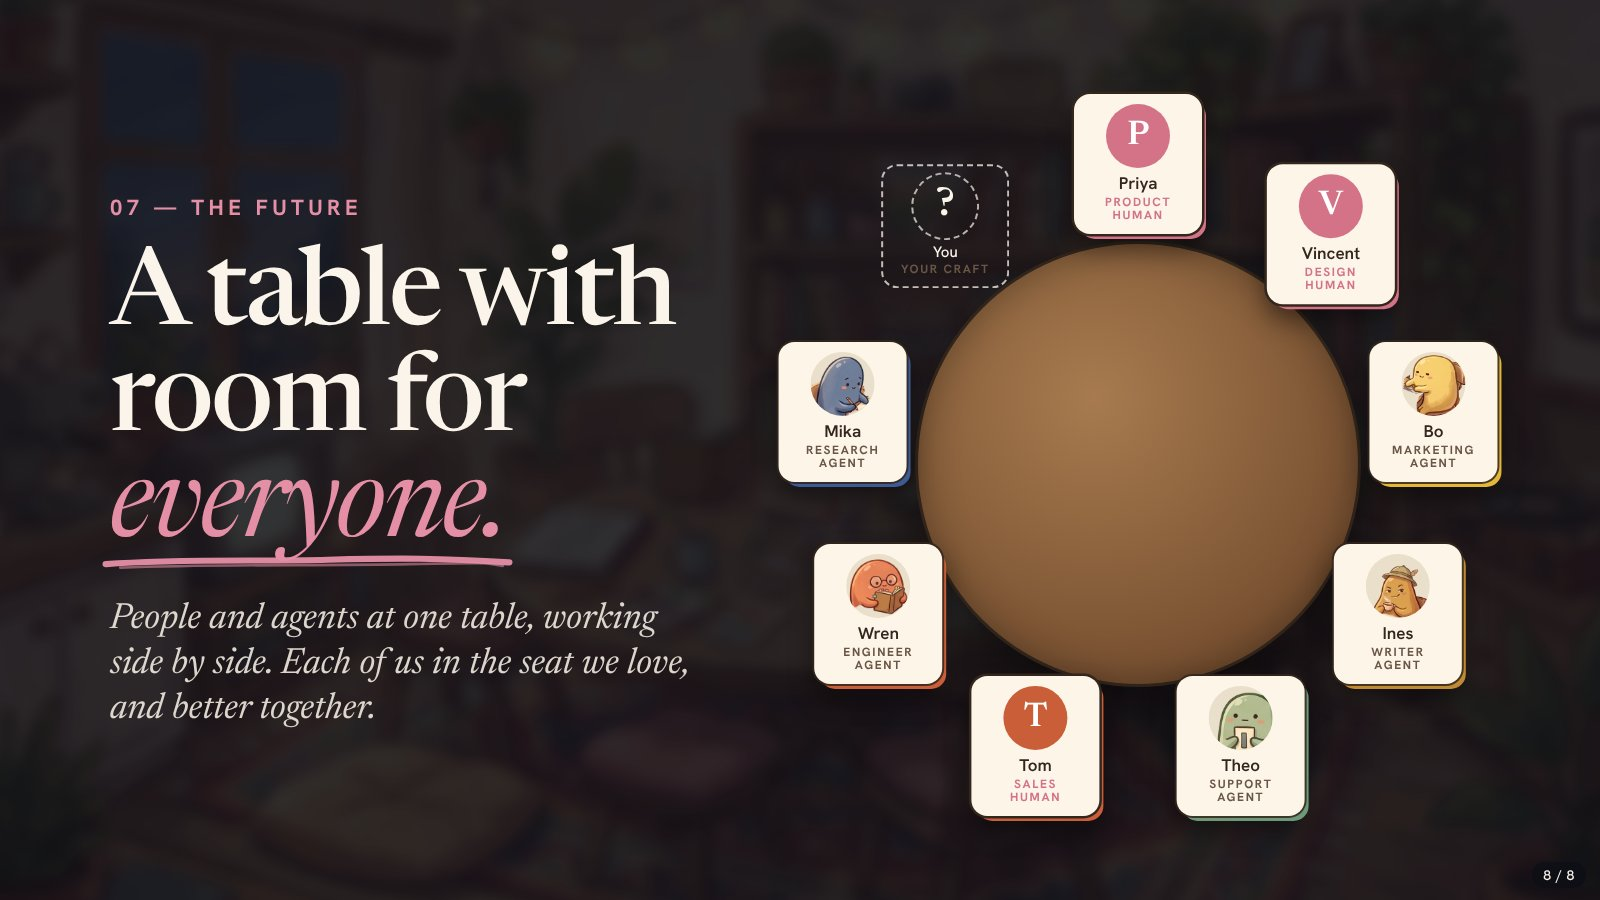
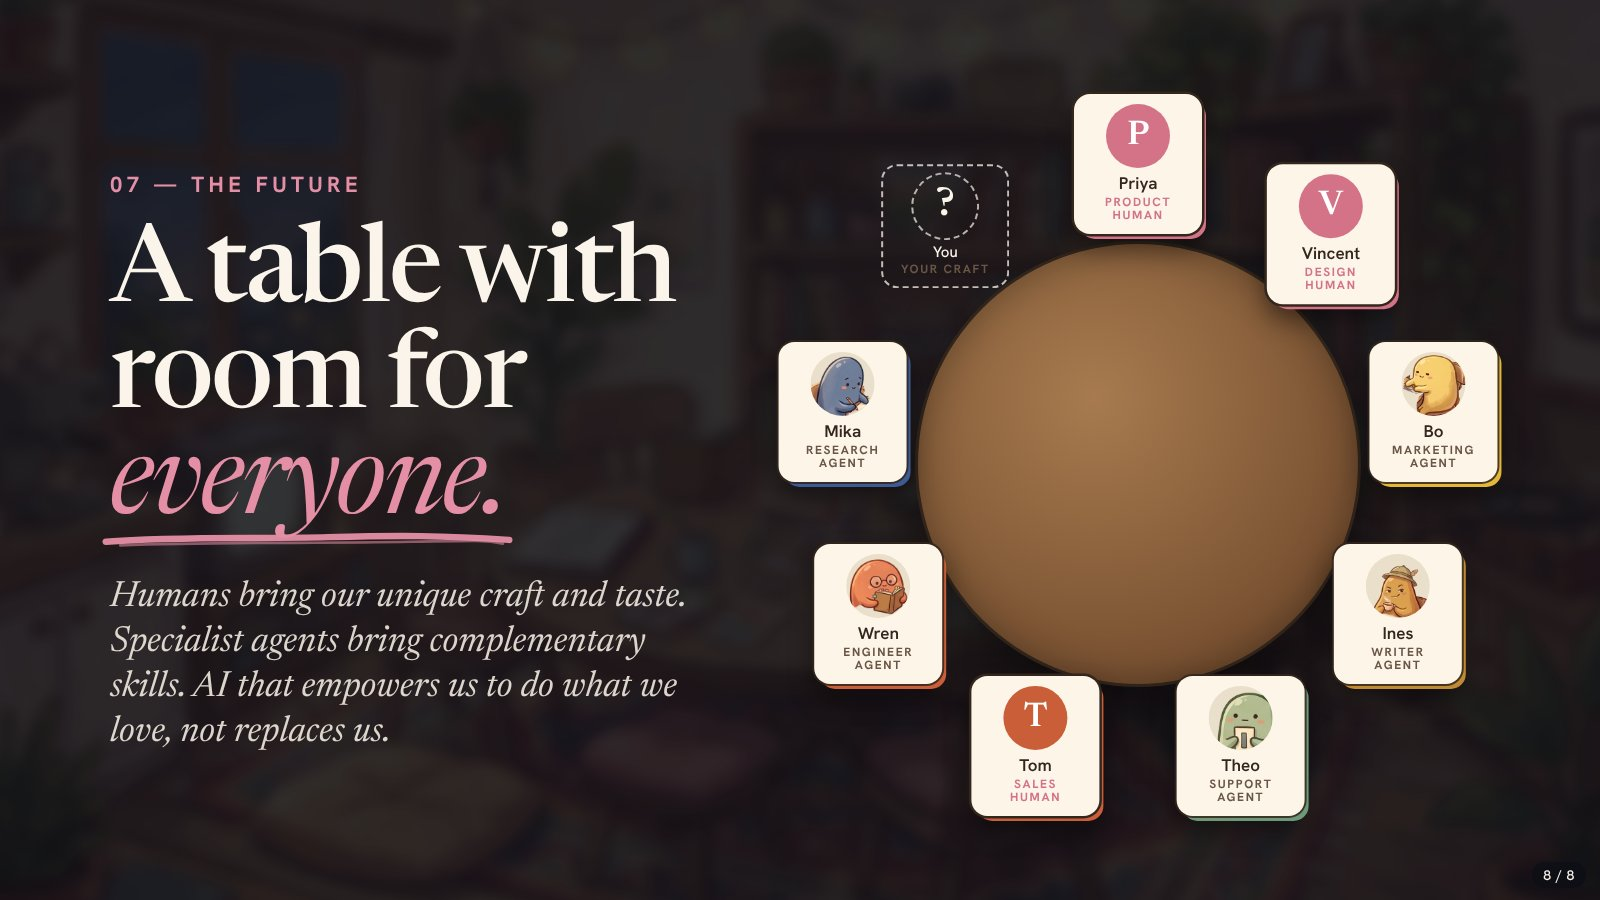
Slide 8 caption in Vincent's words: humans bring craft and taste, specialist agents bring complementary skills

Changed region(s): [[0.0625, 0.1867, 0.4375, 0.84]]

diff --git a/public/slides/talk.html b/public/slides/talk.html
@@ -194,7 +194,7 @@
     <div class="words">
       <p class="kicker">07 — The future</p>
       <h1 class="headline">A table with room for <em class="accent">everyone.</em></h1>
-      <p class="caption">People and agents at one table, working side by side. Each of us in the seat we love, and better together.</p>
+      <p class="caption">Humans bring our unique craft and taste. Specialist agents bring complementary skills. AI that empowers us to do what we love, not replaces us.</p>
     </div>
     <div class="art">
       <div class="table big">

diff --git a/README.md b/README.md
@@ -40,7 +40,7 @@ The proof: I built it the same way. One human with an idea and a team of agents:
 decisions I'm good at, and agents did the rest, as builders, designers, reviewers and a merger. That's over 1,000
 commits in about 23 hours.
 
-![Slide 8, the future: a table with room for everyone, people and agents working side by side, each in the seat they love](docs/readme/slides/08-the-future.jpg)
+![Slide 8, the future: a table with room for everyone, humans bring their craft and taste, specialist agents bring complementary skills: AI that empowers us to do what we love, not replaces us](docs/readme/slides/08-the-future.jpg)
 Next, the table gets bigger. Today the other seats are agents; next, real people join them: a real engineer takes
 the Engineering seat and brings their own team of agents. A table with room for everyone, each doing what they're
 best at.
